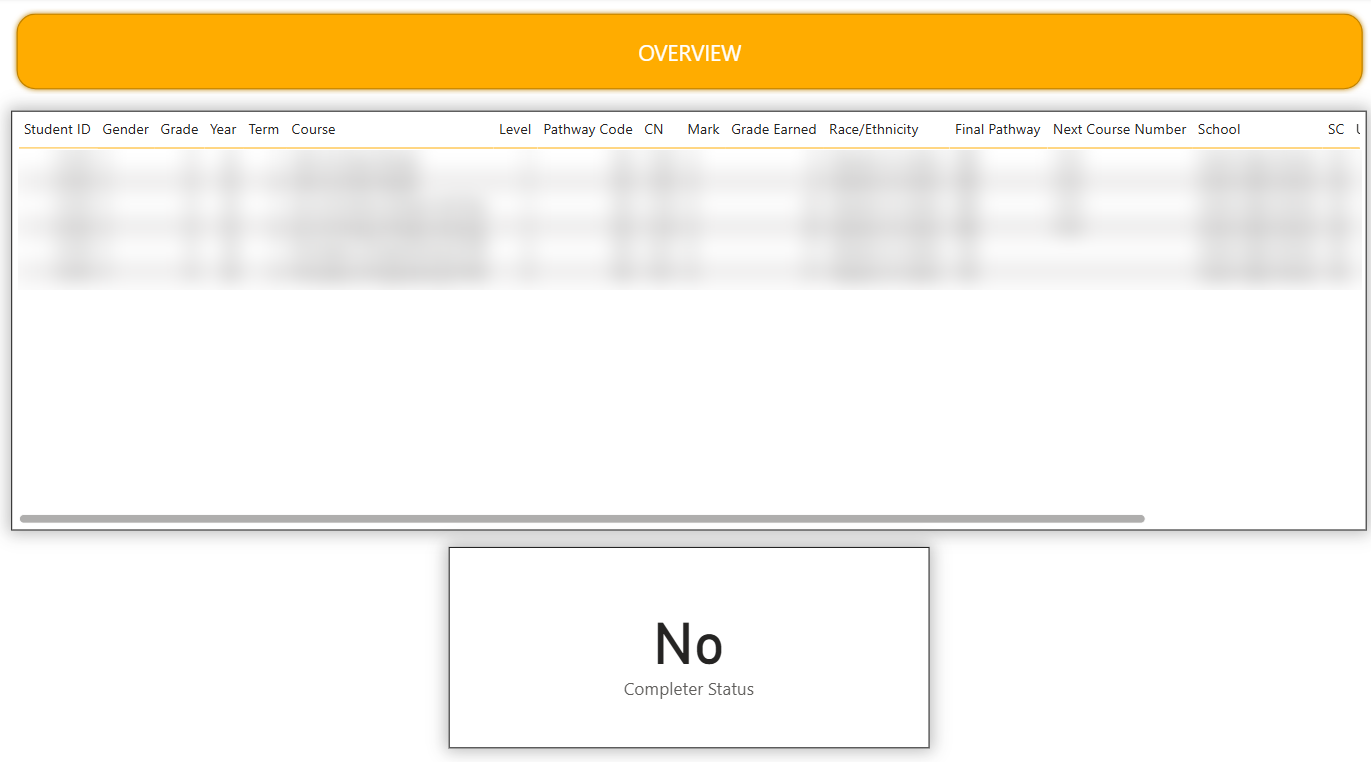
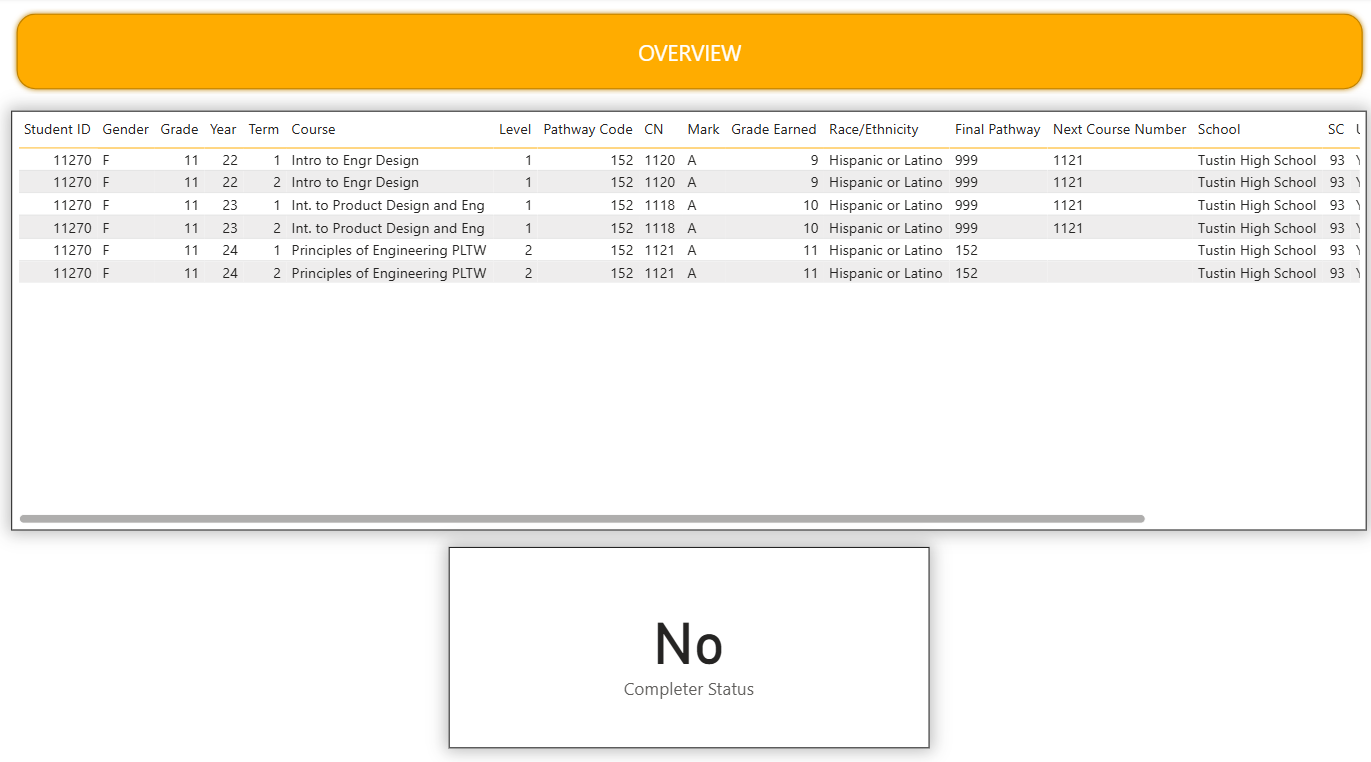
Unblur TUSD student detail; note the data is fake
Claude-Session: https://claude.ai/code/session_01L1qMa3Q9ta1ubYoYjS5G9L

diff --git a/src/data/portfolio.ts b/src/data/portfolio.ts
@@ -334,7 +334,7 @@ export const WORK_PROJECTS: ProjectData[] = [
     slots: [
       {
         label: "Student detail view",
-        prompt: "Search one student ID to see every CTE course, term and grade, and whether they completed their pathway. Student details blurred for privacy.",
+        prompt: "Search one student ID to see every CTE course, term and grade, and whether they completed their pathway. All student data shown is fake sample data.",
         image: "/tusd-student-detail.png",
         popups: ["Power BI", "Python", "Excel"],
         aspect: "16/11",
